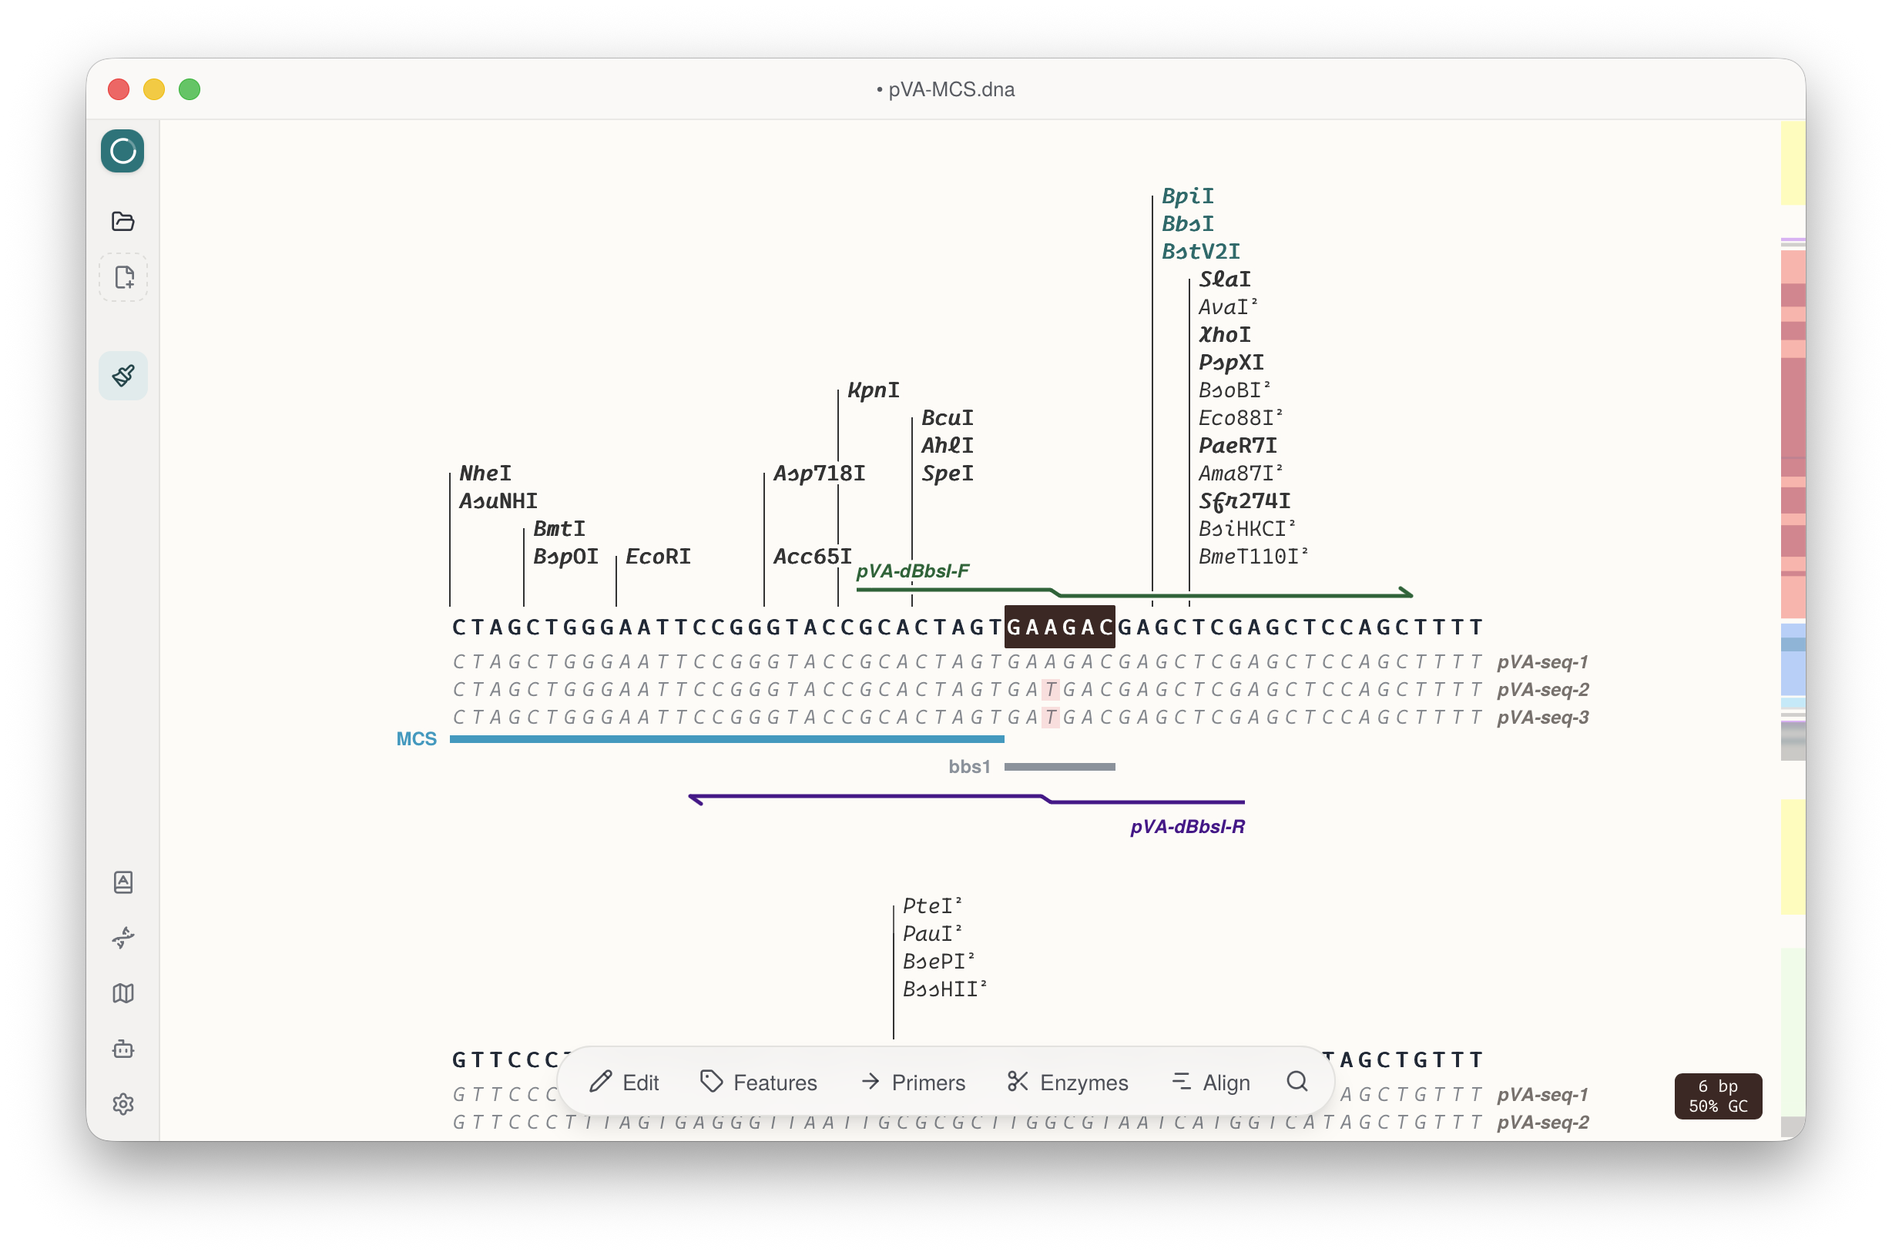
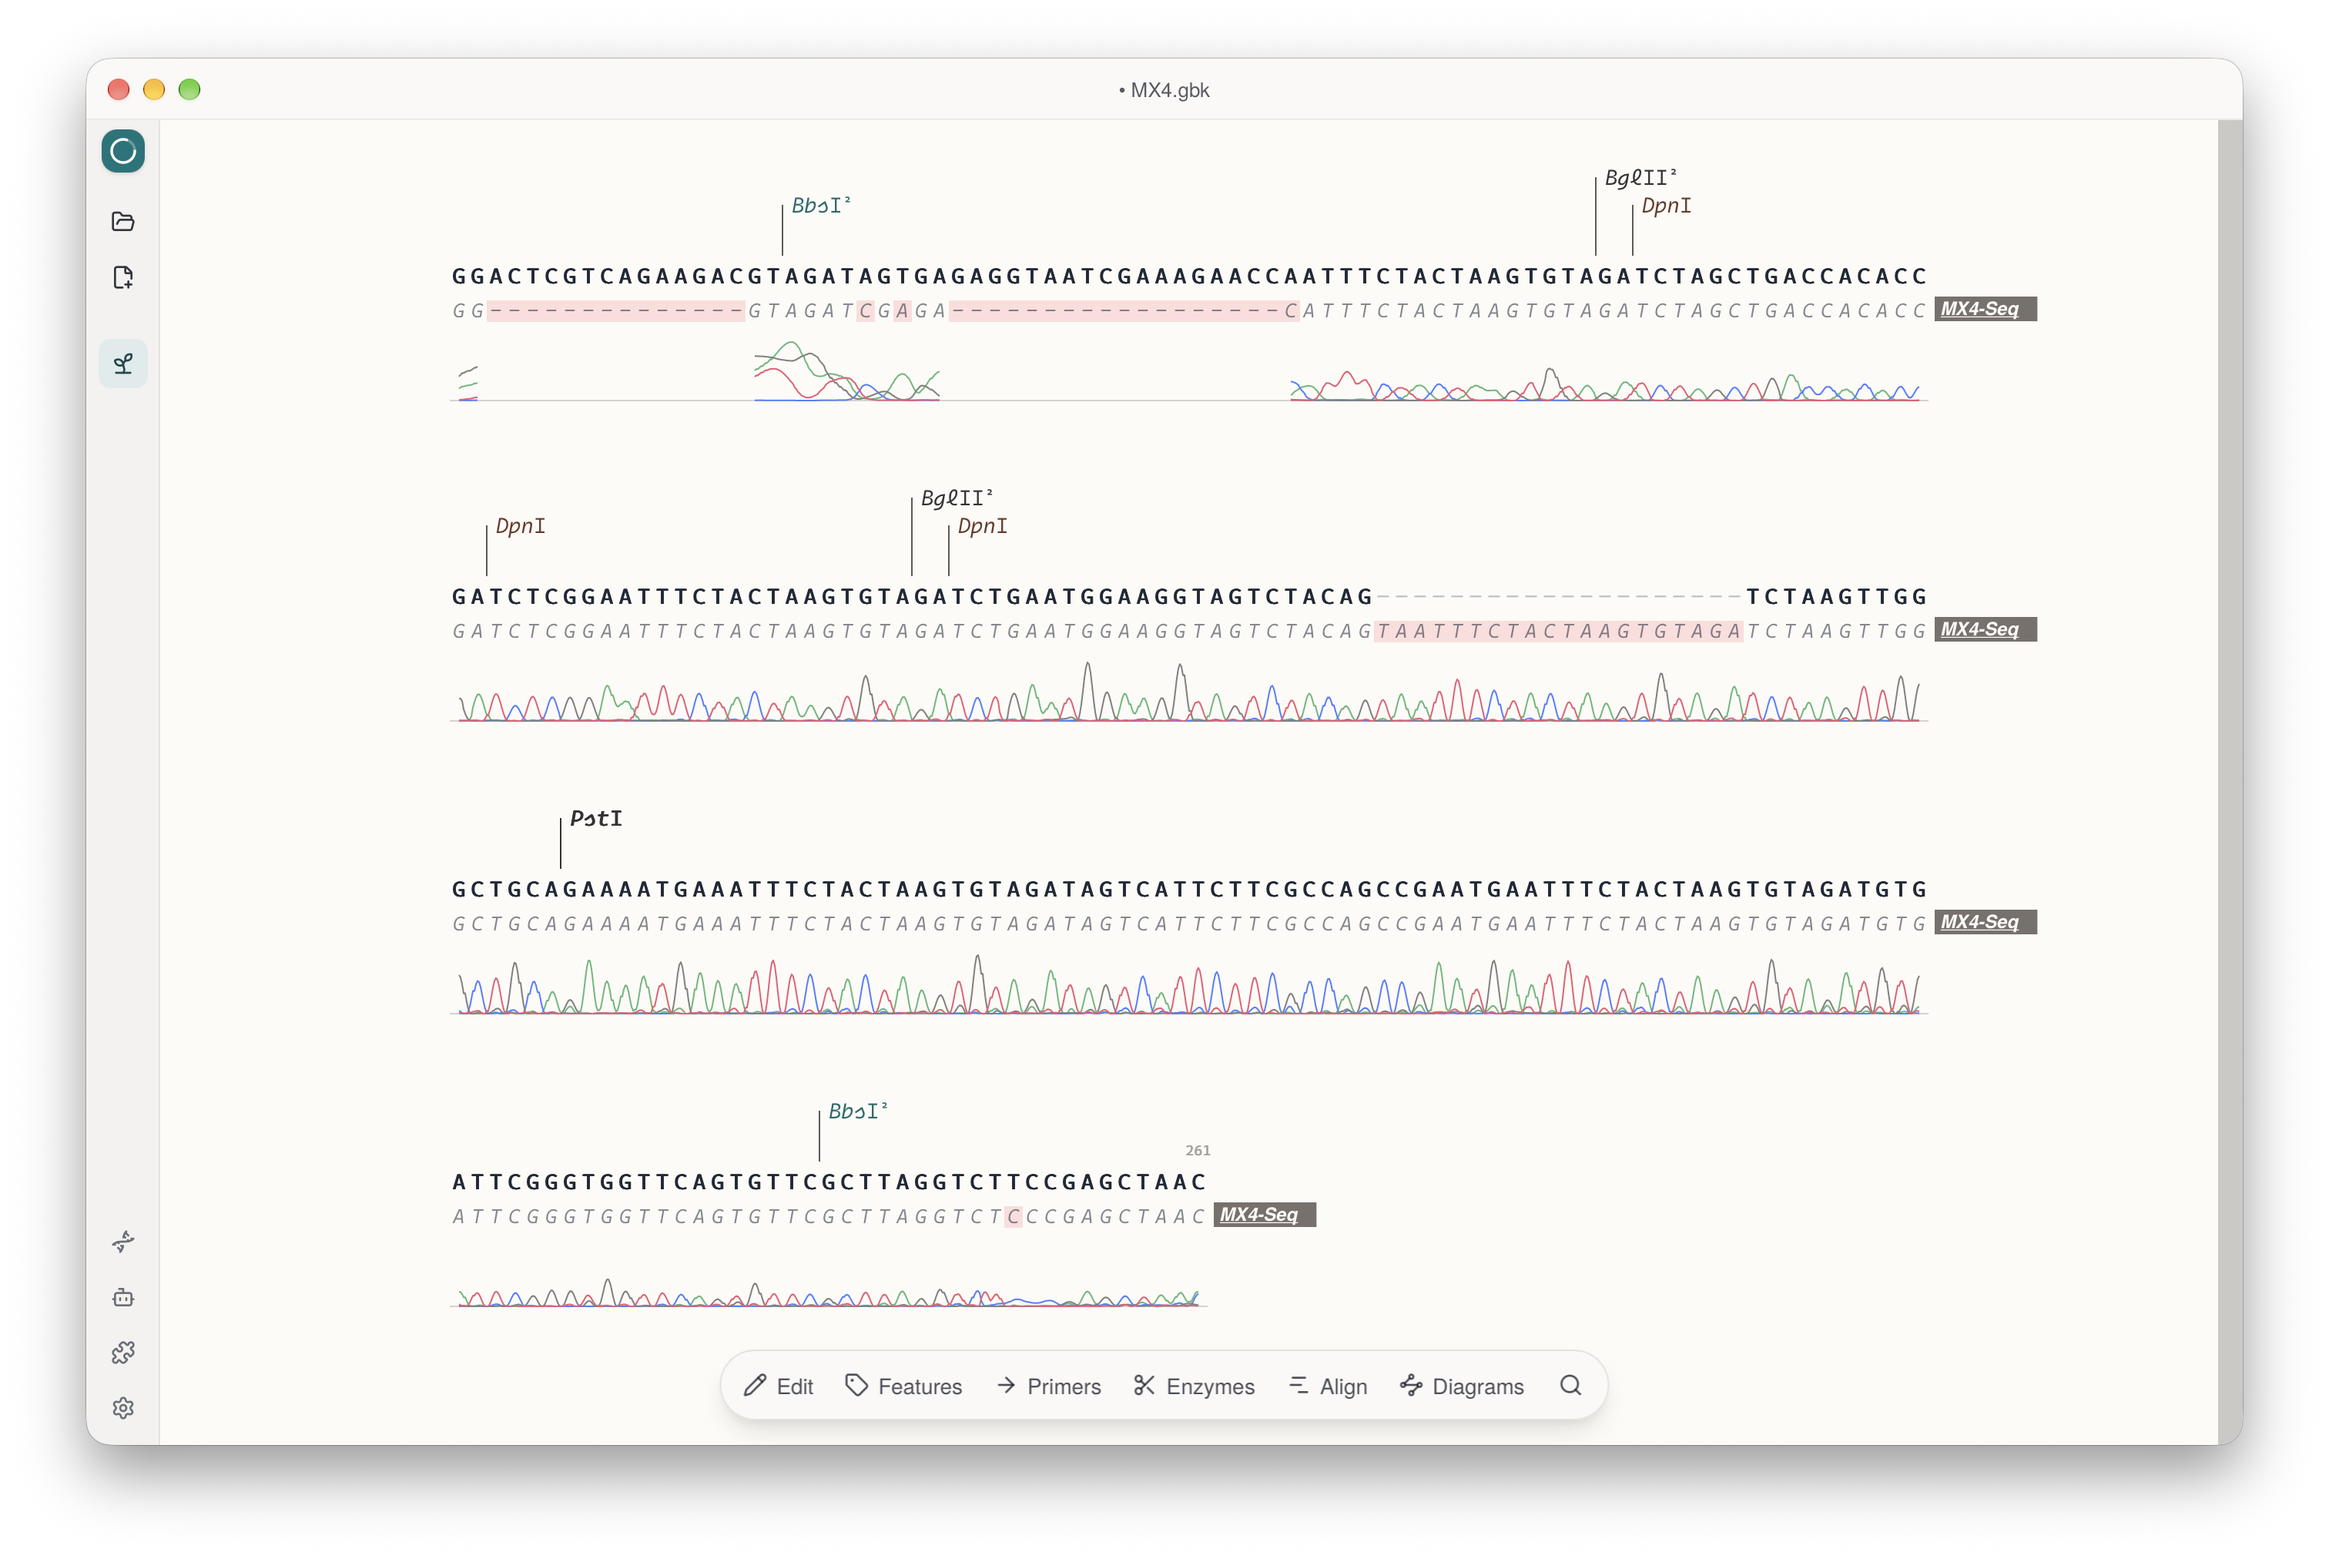
docs: refresh alignment and ORF screenshots in READMEs

diff --git a/README.md b/README.md
@@ -29,7 +29,7 @@ A lightweight cross-platform desktop plasmid editor. SVG rendering, feature anno
 - Compound (multi-segment) features, custom colors, strand toggling, enriched GenBank I/O that preserves colors and primers
 
 <p align="center">
-  <img src="screenshots/orf.png" alt="ORF search results" width="49%" />
+  <img src="screenshots/orf-and-gc-content.png" alt="ORF search results with GC content track" width="49%" />
   <img src="screenshots/new-project-dialog.png" alt="New project dialog with auto-detected features" width="49%" />
 </p>
 

diff --git a/README.zh-CN.md b/README.zh-CN.md
@@ -29,7 +29,7 @@
 - 支持复合（多段）特征、自定义颜色、链方向切换，增强型 GenBank 读写可保留颜色和引物注释
 
 <p align="center">
-  <img src="screenshots/orf.png" alt="ORF 搜索结果" width="49%" />
+  <img src="screenshots/orf-and-gc-content.png" alt="ORF 搜索结果与 GC 含量轨道" width="49%" />
   <img src="screenshots/new-project-dialog.png" alt="新建项目对话框：自动检测特征" width="49%" />
 </p>
 
